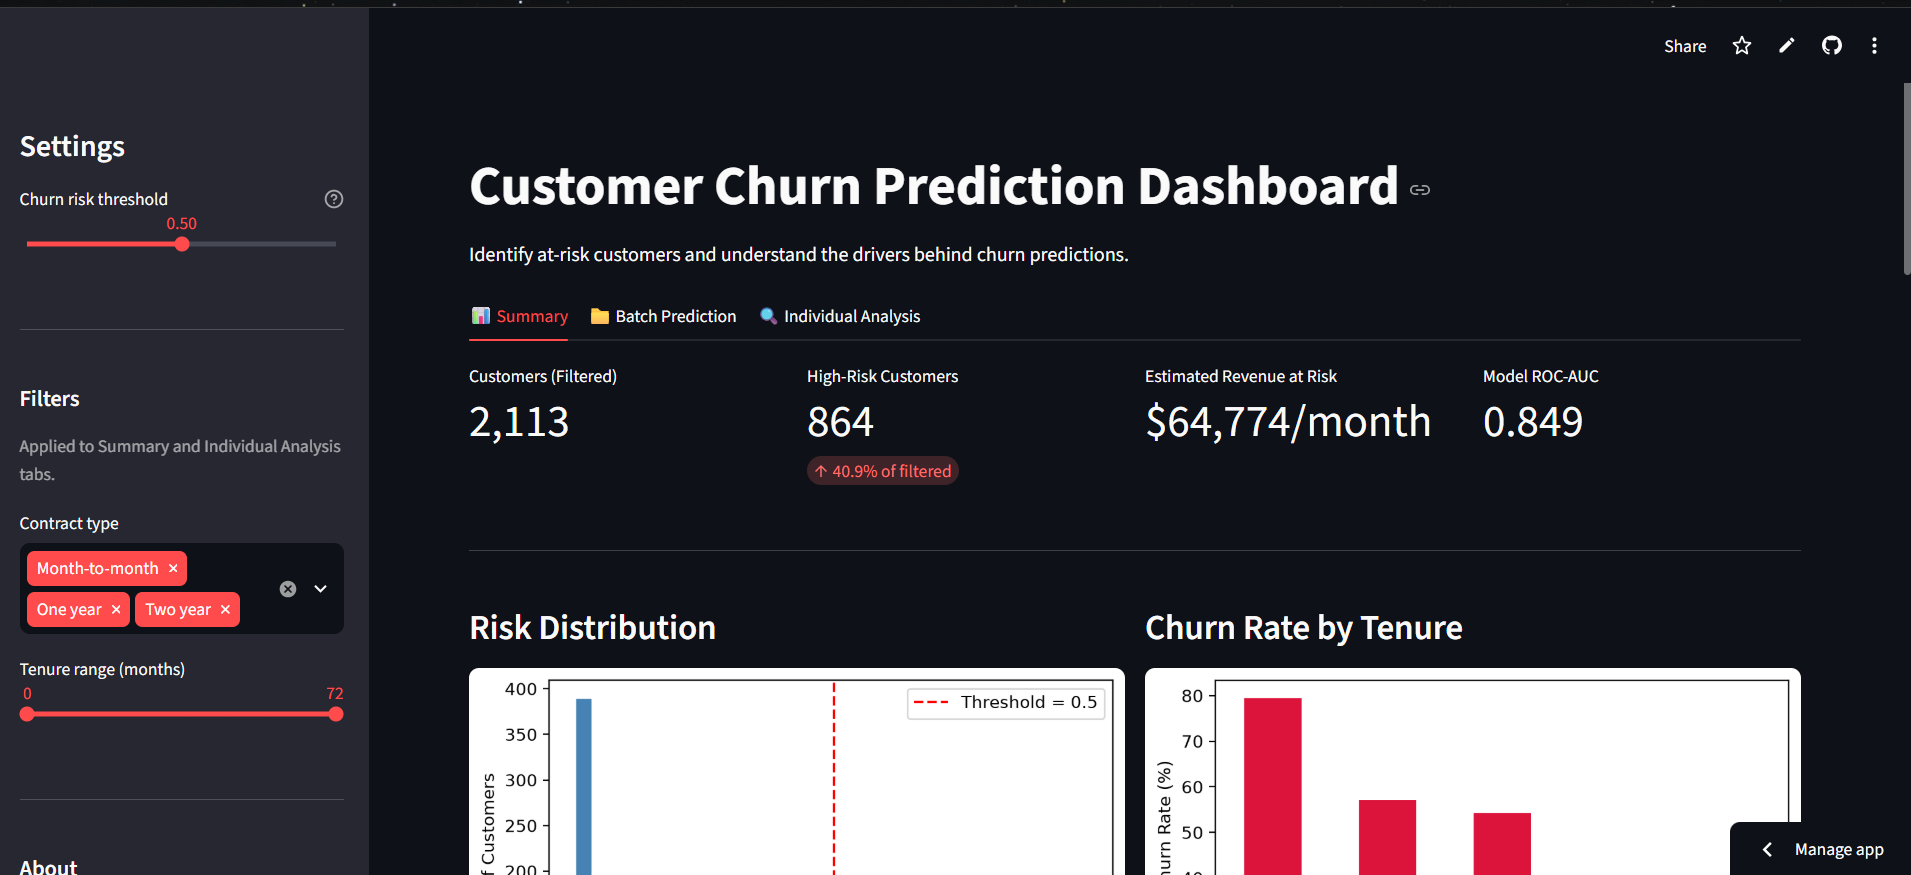
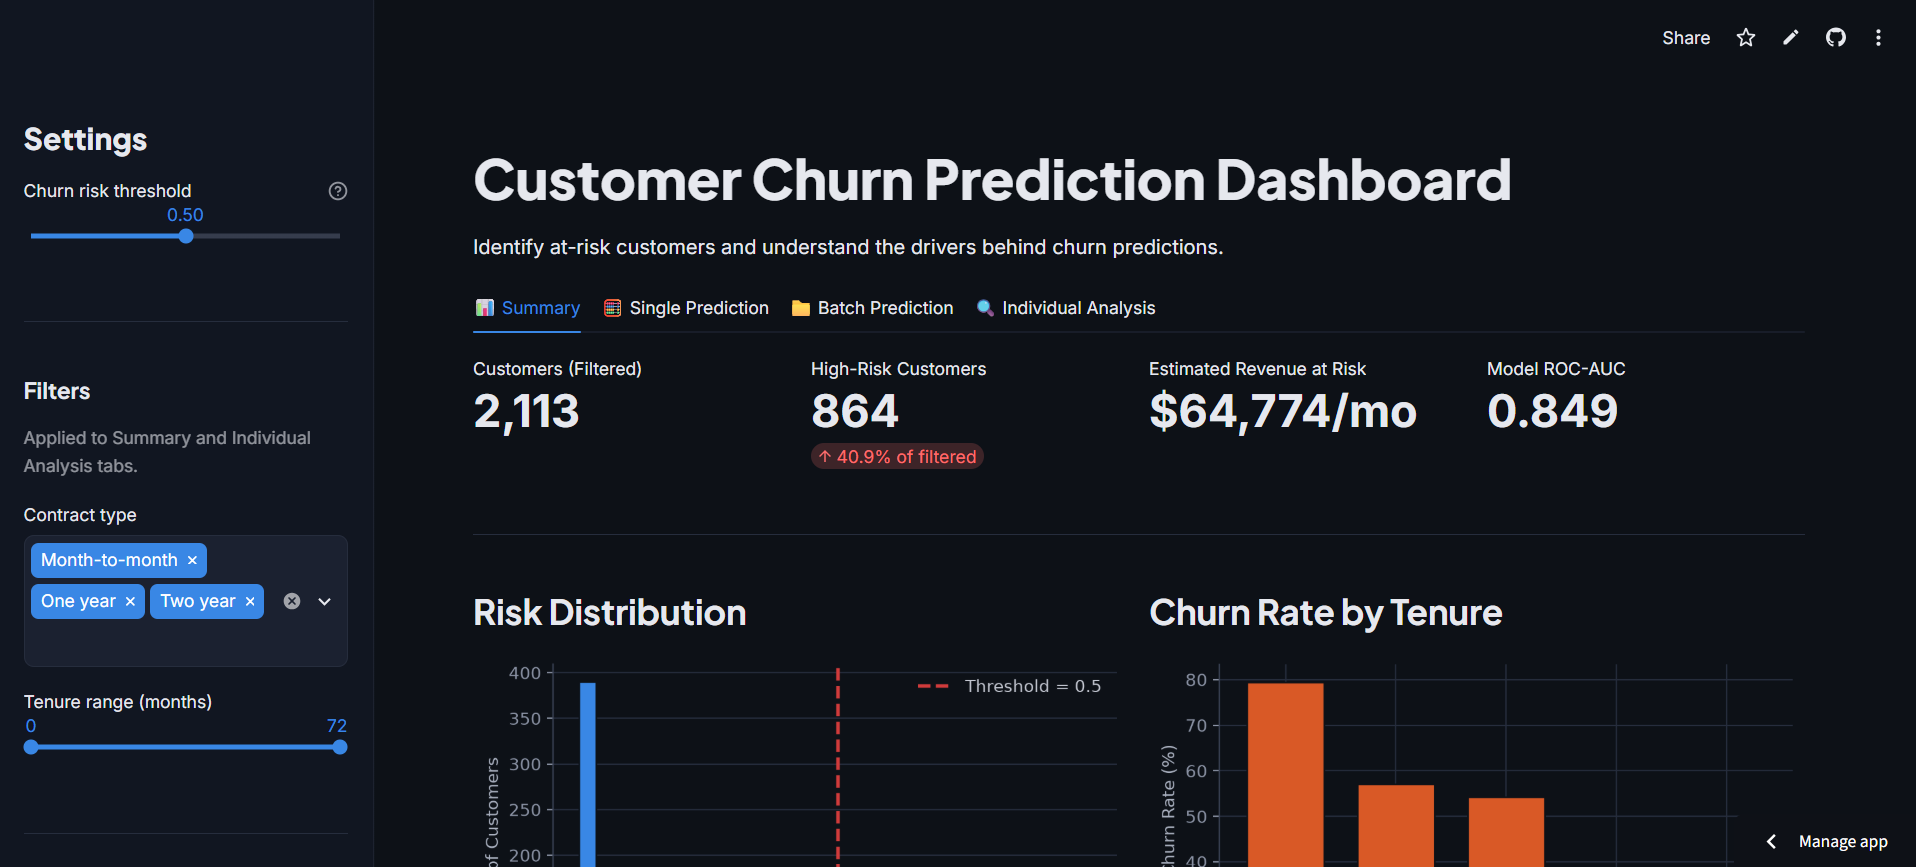
Update README for single prediction, raw batch upload, and pipeline verification

diff --git a/README.md b/README.md
@@ -23,7 +23,8 @@ Telecom companies lose recurring revenue when customers churn. Identifying at-ri
 3. **Feature engineering**: Added interaction features based on EDA insights (limited additional lift observed, documented as a finding rather than discarded silently)
 4. **Modeling**: Trained and tuned Logistic Regression, Random Forest, XGBoost, and LightGBM; combined the best performers into a Stacking Ensemble
 5. **Explainability**: SHAP values (on the XGBoost base learner) used to validate model behavior against manual EDA findings and explain individual predictions
-6. **Deployment**: Interactive Streamlit dashboard with three views: portfolio-level summary, batch prediction, and individual customer explanation
+6. **Deployment**: Interactive Streamlit dashboard with four views: portfolio-level summary, single-customer what-if prediction, batch scoring of raw customer data, and individual customer explanation
+7. **Pipeline verification**: The app reuses the notebook preprocessing in `src/preprocess.py`; `notebooks/pipeline_verification.ipynb` rebuilds the full test set from raw data through that module and confirms it matches the training features exactly
 
 ## Results
 
@@ -41,13 +42,14 @@ These results are consistent with published benchmarks on the same dataset (comm
 ## Dashboard Features
 
 - **Summary:** portfolio-level churn risk, revenue at risk, churn-by-tenure breakdown, retention campaign ROI simulator
-- **Batch Prediction:** upload a CSV or use sample data to score multiple customers, filter by risk level, download results
+- **Single Prediction:** enter one customer's details and get their churn probability, risk level, SHAP explanation, and suggested actions. Works as a what-if tool: for a default month-to-month Fiber optic customer, switching the contract to two years lowers predicted churn from 78.8% to 38.9%
+- **Batch Prediction:** upload a CSV in the original Telco format (a downloadable template and column guide are included) or use sample data; invalid values are rejected with a clear message, and results can be filtered by risk level and downloaded with `customerID` preserved
 - **Individual Analysis:** select any customer, see their churn probability, SHAP waterfall explanation, and suggested retention actions
 
 ## Known Limitations
 
 - The stacking ensemble is not directly SHAP-explainable with TreeExplainer; SHAP values are computed on the XGBoost base learner as a proxy
-- Batch prediction expects data already in the model's preprocessed (encoded and scaled) format; a production version would include an automated preprocessing pipeline for raw input
+- In Single Prediction, TotalCharges is estimated as tenure x monthly charges, so it ignores past price changes that a real billing history would reflect
 - Engineered features provided minimal performance lift over the original feature set, likely because tree-based models already captured similar interactions internally
 - Random Forest shows a larger train-test generalization gap (0.084) than XGBoost, even after tuning
 
@@ -60,13 +62,17 @@ Python, pandas, scikit-learn, XGBoost, LightGBM, SHAP, Streamlit, matplotlib/sea
 customer-churn-prediction/
 ├── data/raw/                  # Original dataset
 ├── data/processed/splits/     # Train-test splits used by the app
-├── notebooks/                 # EDA, preprocessing, and modeling notebooks
+├── notebooks/                 # EDA, preprocessing, modeling, and pipeline verification
 ├── src/app.py                 # Streamlit dashboard
+├── src/preprocess.py          # Raw-data pipeline shared by the app (validation, encoding, scaling)
+├── .streamlit/config.toml     # Dashboard theme
 ├── models/                    # Trained models, scaler, SHAP artifacts
 └── requirements.txt
 ```
 
 ## Run Locally
+
+Requires Python 3.12 or newer (the pinned XGBoost version does not support older releases).
 
 ```bash
 git clone https://github.com/Joelcrl/customer-churn-prediction.git
@@ -77,6 +83,6 @@ streamlit run src/app.py
 
 ## Future Improvements
 
-- Automated preprocessing pipeline for raw customer data input
 - Deep dive into SHAP explainability directly on the stacking meta-learner
 - A/B test framework to validate retention campaign impact against the model's predictions
+- Choose the risk threshold from retention campaign cost and value rather than the default 0.5
